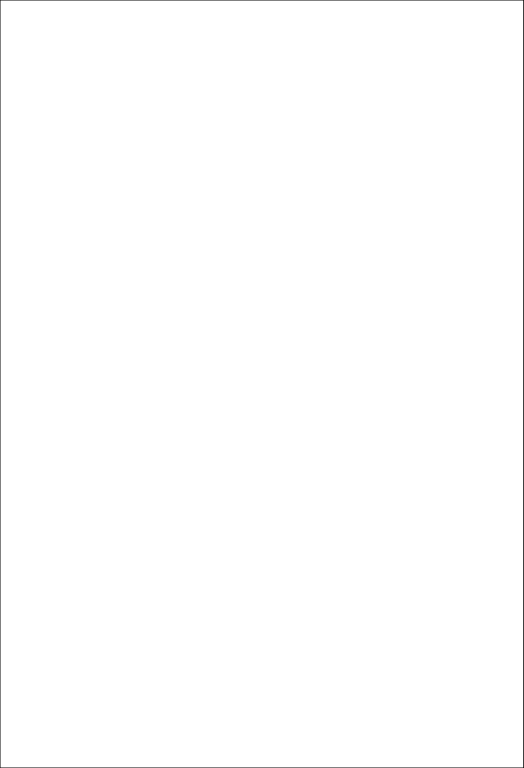
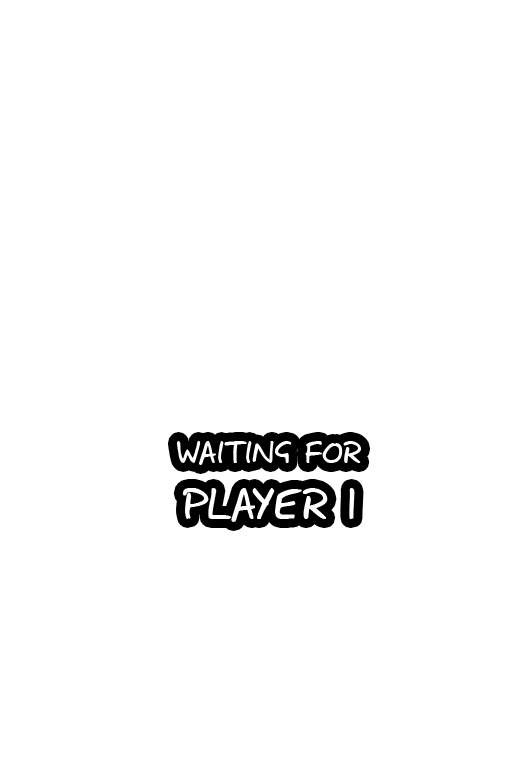
Added new graphics Disabled hit circle effect

diff --git a/trunk/ShadowFighterProjection/src/HitIndicator.cpp b/trunk/ShadowFighterProjection/src/HitIndicator.cpp
@@ -30,7 +30,7 @@ void HitIndicator::draw()
 		ofFill();
 		ofEnableAlphaBlending();
 		ofSetColor(255,255,255,alpha);
-		ofCircle(x, y, width*scale);
+		//ofCircle(x, y, width*scale);
 		img.draw(x-img.getWidth()/2, y+imgY);
 		ofSetColor(255,255,255,255);
 		ofDisableAlphaBlending();
